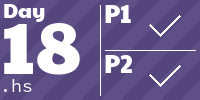
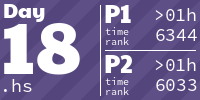
2024, day 19, slow

diff --git a/README.md b/README.md
@@ -10,10 +10,10 @@ according to r/adventofcode when my own solution was much less efficient.
 
 <!-- AOC TILES BEGIN -->
 <h1 align="center">
-  Advent of Code - 484/484 ⭐
+  Advent of Code - 486/486 ⭐
 </h1>
 <h1 align="center">
-  2024 - 34 ⭐ - Haskell
+  2024 - 36 ⭐ - Haskell
 </h1>
 <a href="2024/days/Day1.hs">
   <img src=".aoc_tiles/tiles/2024/01.png" width="161px">
@@ -65,6 +65,9 @@ according to r/adventofcode when my own solution was much less efficient.
 </a>
 <a href="2024/days/Day17.hs">
   <img src=".aoc_tiles/tiles/2024/17.png" width="161px">
+</a>
+<a href="2024/days/Day18.hs">
+  <img src=".aoc_tiles/tiles/2024/18.png" width="161px">
 </a>
 <h1 align="center">
   2023 - 50 ⭐ - Haskell
